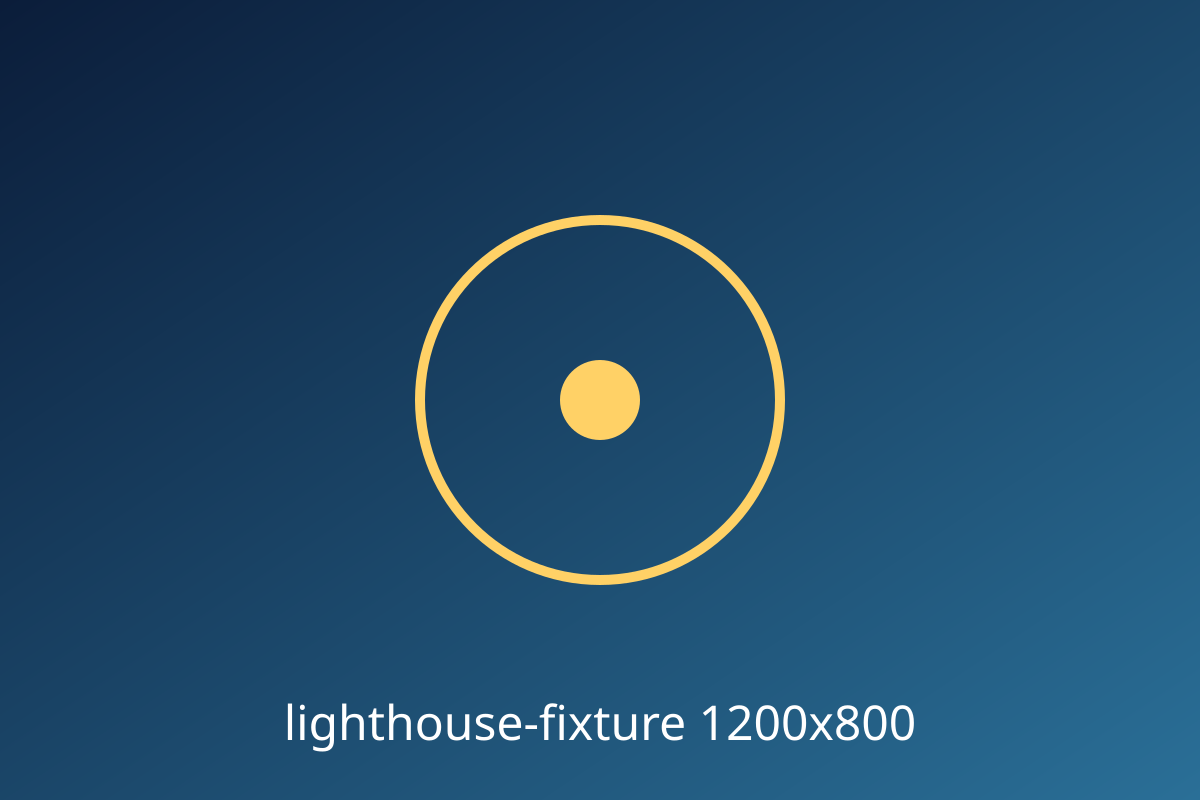
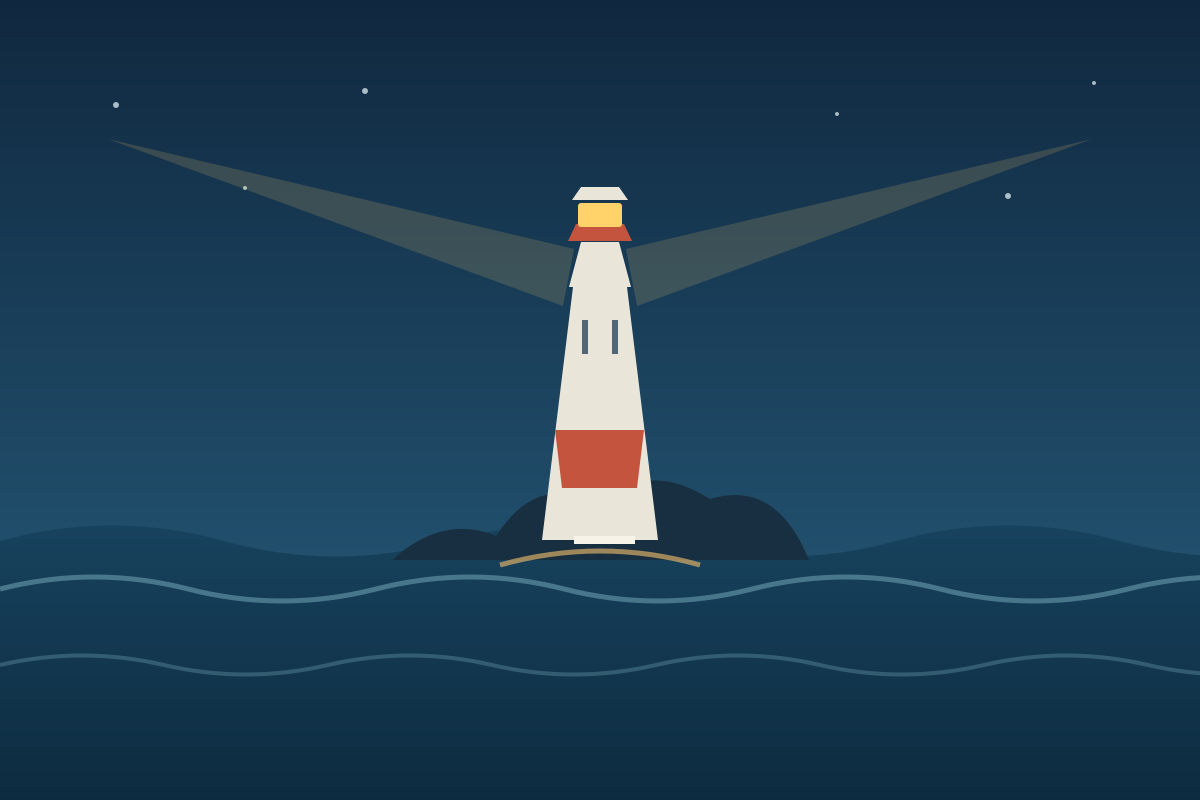
docs(147): publish canonical notices with Demo assets

diff --git a/THIRD_PARTY_NOTICES.md b/THIRD_PARTY_NOTICES.md
@@ -73,14 +73,22 @@ Pagefind assets, theme code and selected icon data. The contents depend on the
 Site and enabled features; this list is not exhaustive. Site owners are responsible
 for the rights to their own content and assets.
 
+## Demo distribution artifacts
+
+The Vercel Demo build copies `LICENSE`, `NOTICE`, `CREDITS.md`, this file, and
+regular `.txt` files from `LICENSES/` to `site-assets/alnilam-notices/`. These
+are static text artifacts; the directory has no `index.html`, Core route,
+navigation item, or footer link. Generic Compose builds for independently owned
+Sites do not inject these Core files or mutate Site content.
+
 ## Outstanding release evidence (#75)
 
 | Risk | Disposition and evidence |
 |---|---|
-| Asset rights | **NOT VERIFIED for final acceptance.** The P0 audit excludes upstream media without separate rights evidence ([P0 acceptance](docs/p0/P0-ACCEPTANCE.md)). The raster fixture `sites/demo/assets/lighthouse.png` entered in commit `a5f2bae108458f21578060063343483652dc2c7e`; that commit does not establish its authorship or redistribution grant. Confirm its provenance or replace it before claiming an authorized asset inventory. External Site assets and build-time provider content require their own rights review. |
+| Asset rights | **CURRENT DEMO ARTIFACT REPLACED; HISTORICAL BLOB UNVERIFIED.** The current `sites/demo/assets/lighthouse.png` is rendered from the authored `sites/demo/assets/lighthouse-artwork.svg`, distributed under ALNILAM's Apache-2.0 license. This replaces the undocumented raster from commit `a5f2bae108458f21578060063343483652dc2c7e`; the old blob remains in Git history, so its rights are still unverified and no history rewrite is claimed. External Site assets and build-time provider content require their own rights review. |
 | Fancyapps UI | **REMOVED.** `@fancyapps/ui` is no longer a dependency or redistributable. The lightbox runtime uses MIT `photoswipe@5.4.4` via the retained `FancyboxHandler` compatibility façade. Fancyapps is not shipped in lockfile, themes, or built assets. |
-| Dependency and source licenses | **PARTIAL.** Shirone's pinned source ledger and license are retained, but the selected dependency list above is not a transitive license inventory or a final source-license scan. The historical [CNB evidence](docs/cnb/CNB-REVIEW.md) says SourceSCA was not configured for those runs; those older results do not establish current-head acceptance. |
-| Credentials | **NOT VERIFIED for final acceptance.** The workflow documents read-only Site credentials and disables persisted checkout credentials ([site-ci.yml](.github/workflows/site-ci.yml)); marker-boundary tests exist in `scripts/tests/secrets-boundary.test.mjs`. These controls and tests do not prove that the current tree, history, artifacts or logs contain no secrets. A scoped secret review and remediation of any finding remain necessary. |
+| Dependency and source licenses | **PARTIAL.** Shirone's pinned source ledger and license are retained, but the selected dependency list above is not a transitive license inventory or a final source-license scan. The historical [CNB evidence](https://github.com/Skyline-Gazer/ALNILAM/blob/dev/docs/cnb/CNB-REVIEW.md) says SourceSCA was not configured for those runs; those older results do not establish current-head acceptance. |
+| Credentials | **NOT VERIFIED for final acceptance.** The workflow documents read-only Site credentials and disables persisted checkout credentials ([site-ci.yml](https://github.com/Skyline-Gazer/ALNILAM/blob/dev/.github/workflows/site-ci.yml)); marker-boundary tests exist in [secrets-boundary.test.mjs](https://github.com/Skyline-Gazer/ALNILAM/blob/dev/scripts/tests/secrets-boundary.test.mjs). These controls and tests do not prove that the current tree, history, artifacts or logs contain no secrets. A scoped secret review and remediation of any finding remain necessary. |
 | Supply chain and build | **PARTIAL.** The lockfile pins resolved dependencies, and historical CNB evidence describes earlier vulnerability and license checks. Current-head dependency risk review and disposition, plus source-bound PR and remote CI evidence, remain outstanding. |
 
 
